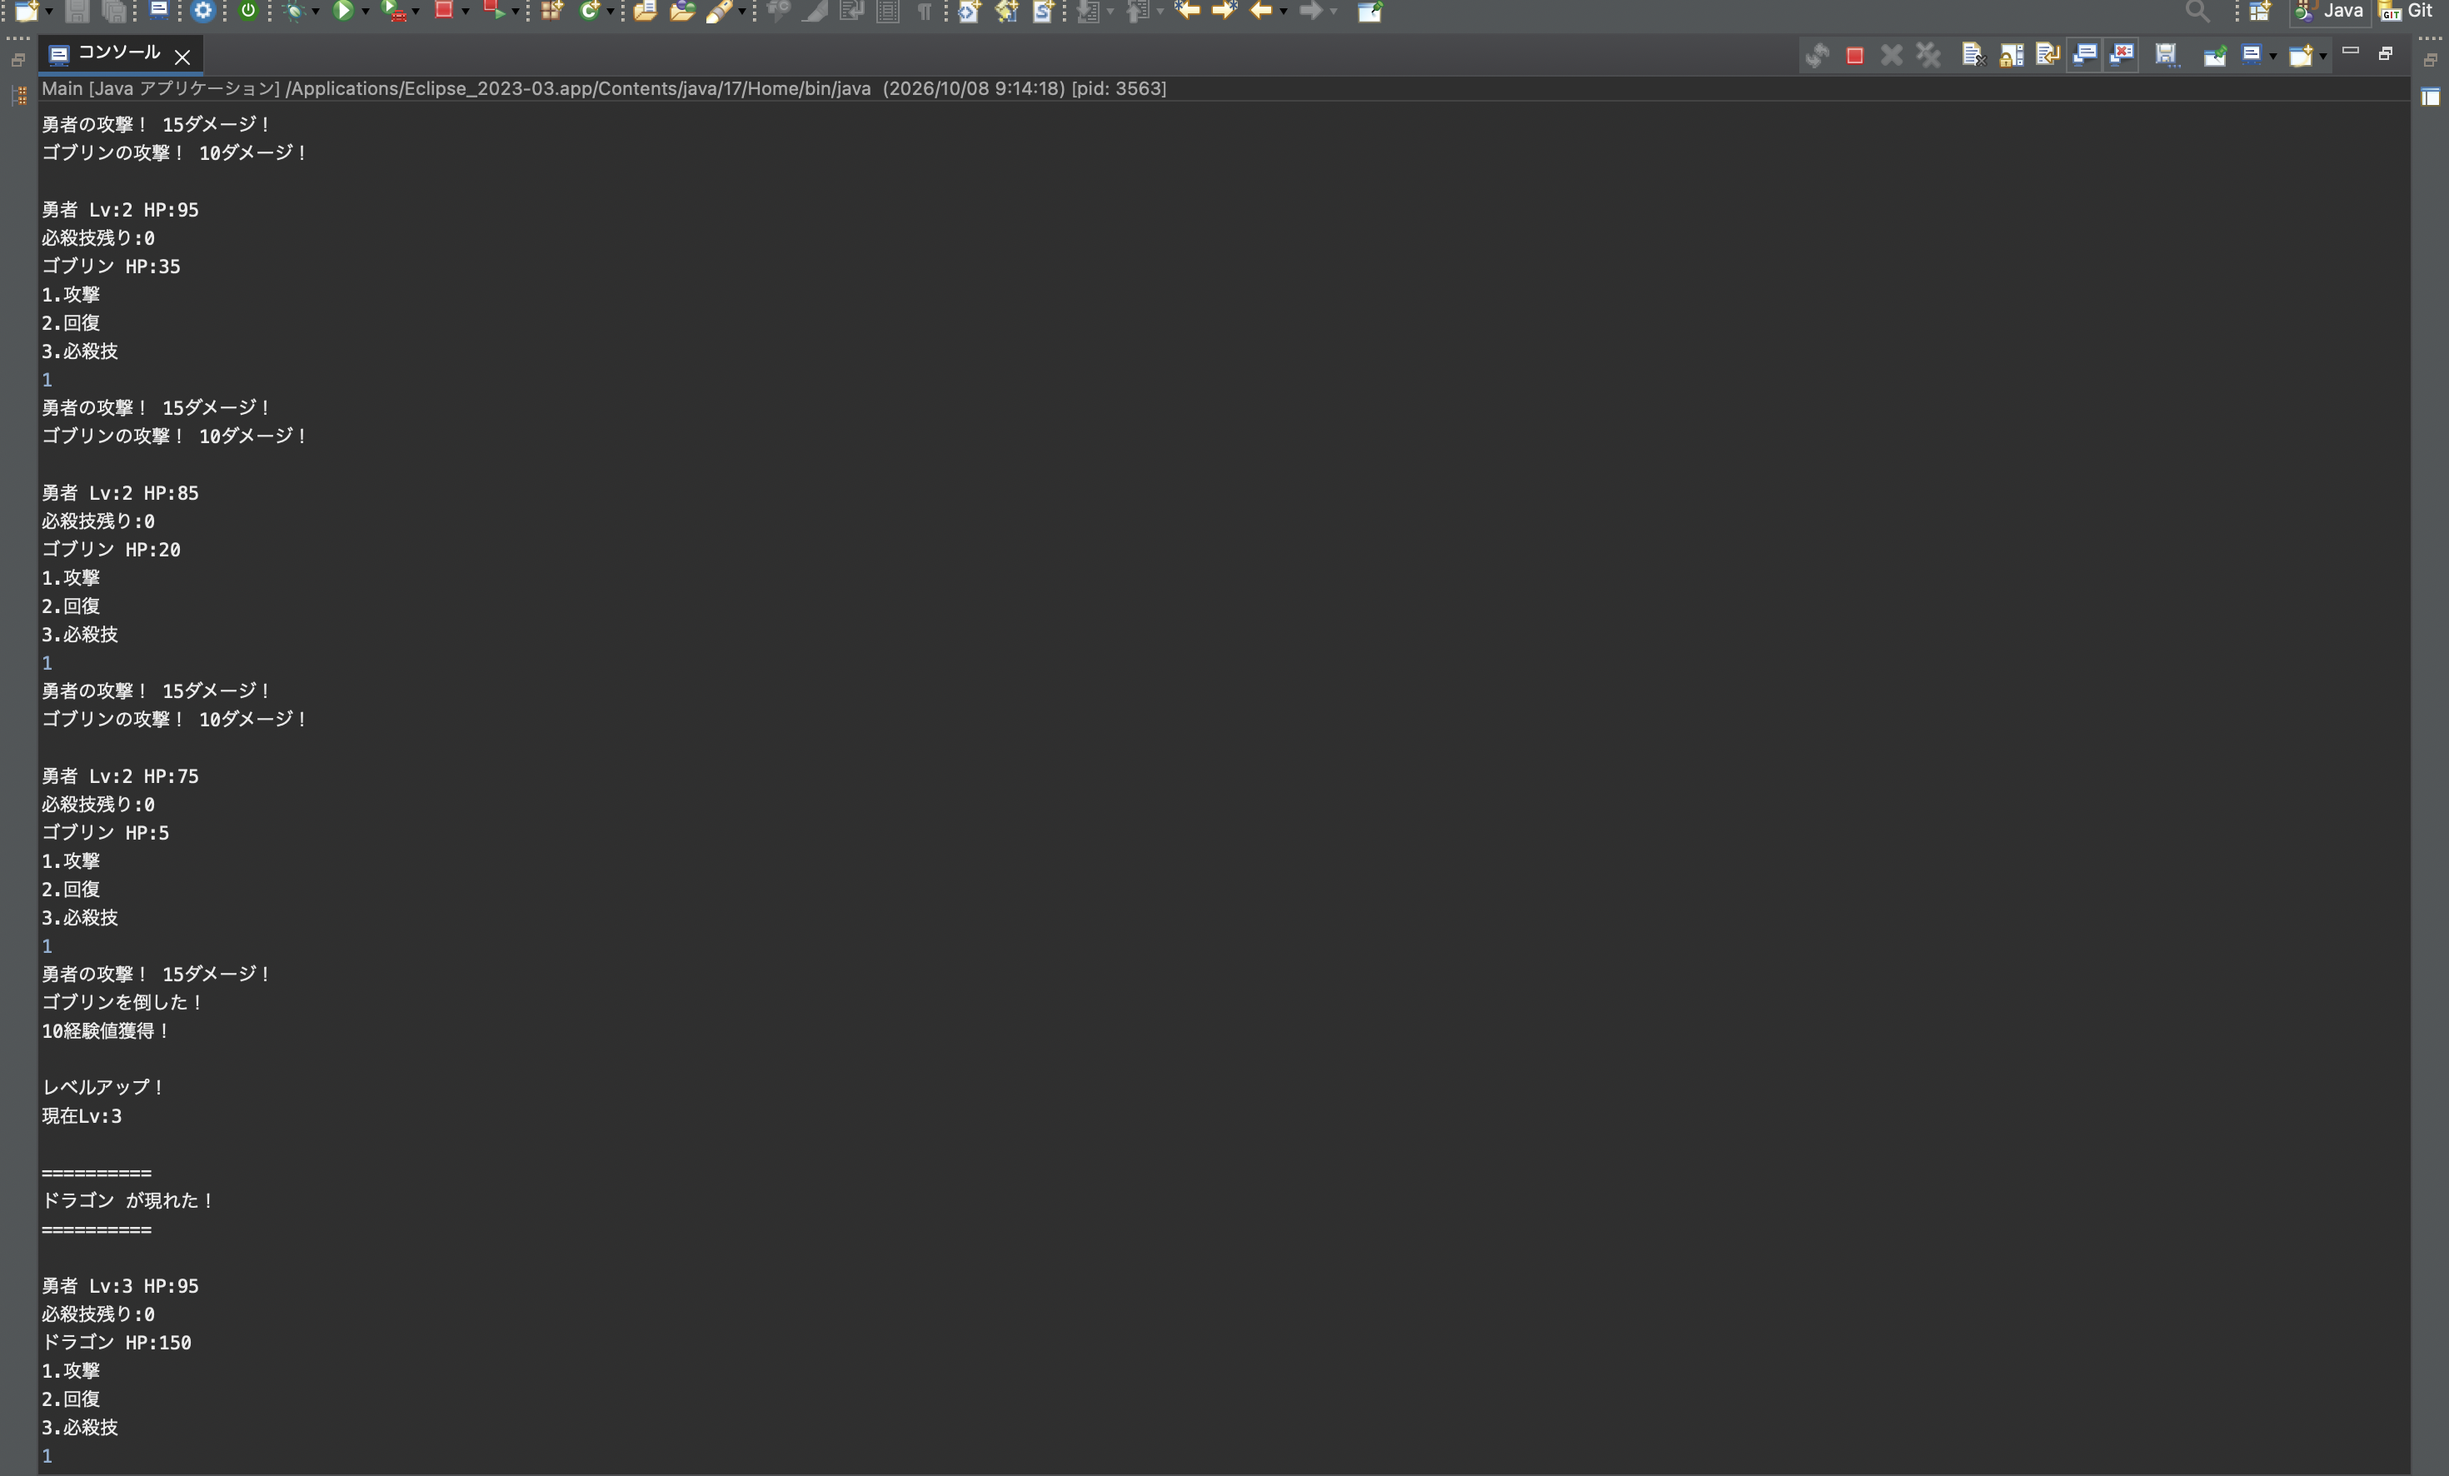
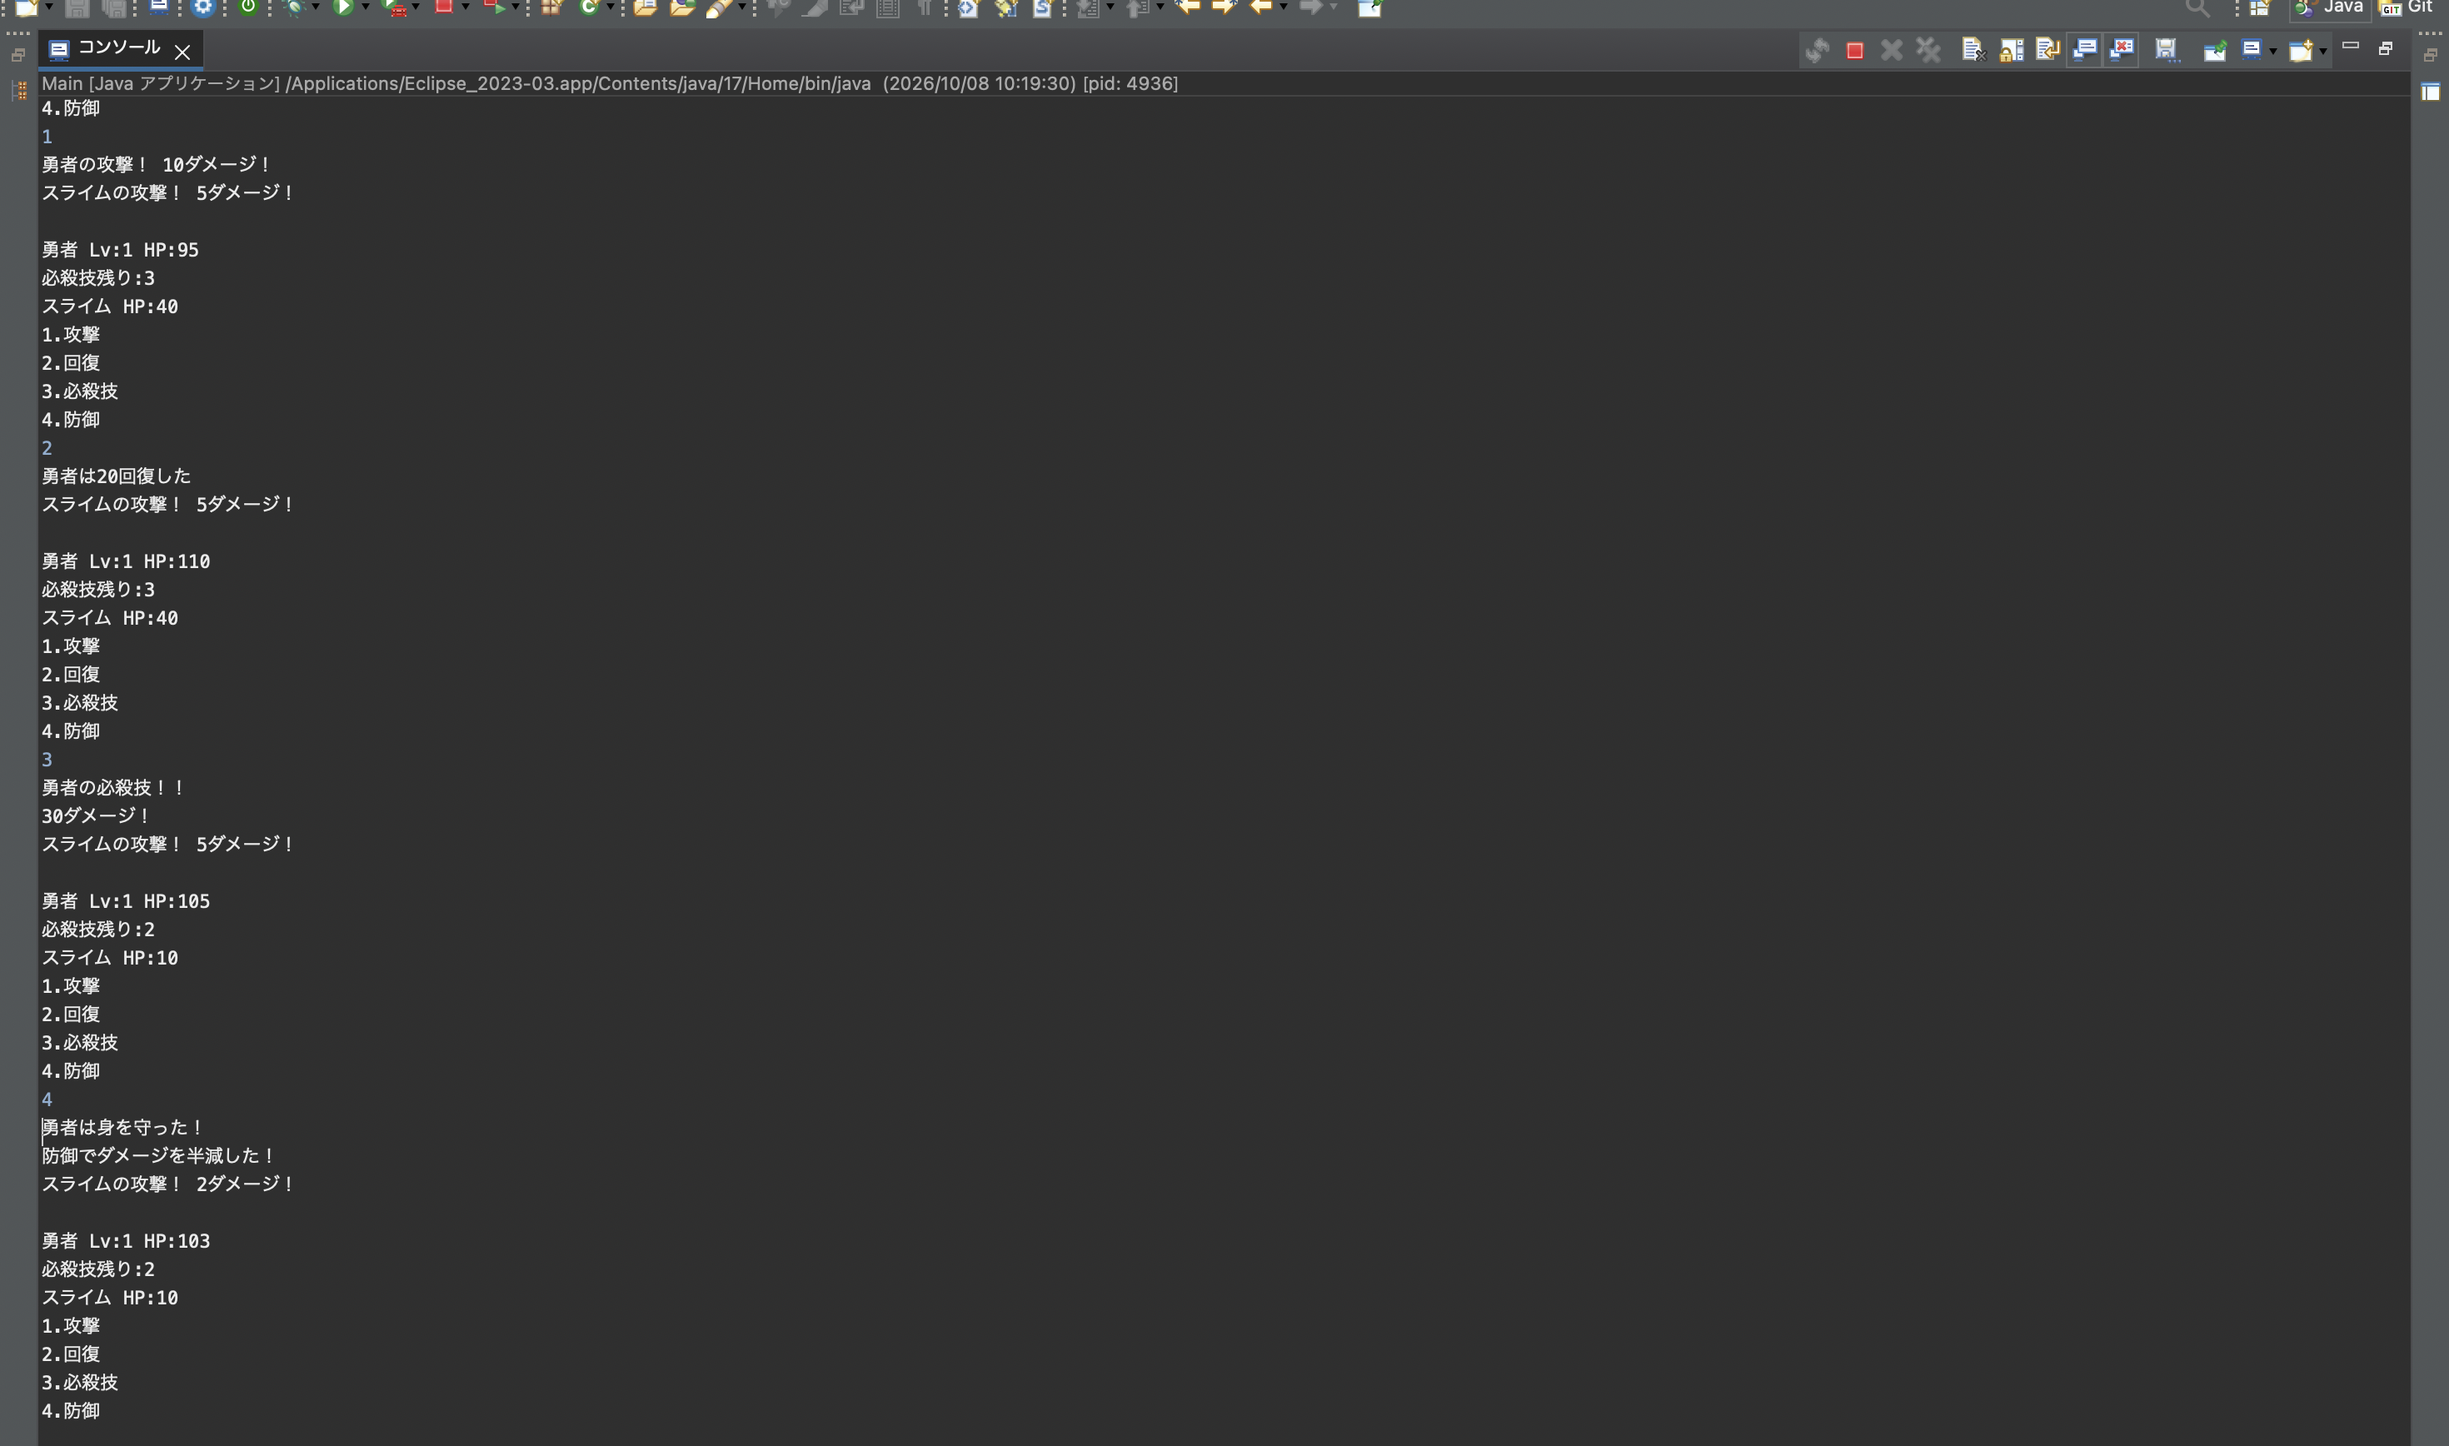
make defending

Changed region(s): [[0.0, 0.0, 0.9905, 1.0], [0.7429, 0.0, 1.0, 0.0622]]

diff --git a/RPGGame2/src/game/Battle.java b/RPGGame2/src/game/Battle.java
@@ -42,6 +42,7 @@ public class Battle {
                 System.out.println("1.攻撃");
                 System.out.println("2.回復");
                 System.out.println("3.必殺技");
+                System.out.println("4.防御");
                 
 
                 int choice = sc.nextInt();
@@ -57,10 +58,15 @@ public class Battle {
                 } else if(choice == 3) {
 
                     hero.specialAttack(monster);
+                    
+                } else if (choice == 4) {
+                	
+                    hero.defending = true;
+                    System.out.println("勇者は身を守った！");                
 
                 } else {
 
-                    System.out.println("1～3を入力してください");
+                    System.out.println("1～4を入力してください");
                 }
 
                 if (monster.hp <= 0) {
@@ -74,7 +80,20 @@ public class Battle {
                     break;
                 }
 
-                monster.attack(hero);
+                int damage = monster.attackPower;
+
+                if (hero.defending) {
+                    damage = damage / 2;
+                    System.out.println("防御でダメージを半減した！");
+                }
+
+                hero.hp -= damage;
+
+                System.out.println(
+                        monster.name + "の攻撃！ "
+                        + damage + "ダメージ！");
+
+                hero.defending = false;
 
                 if (hero.hp <= 0) {
 

diff --git a/RPGGame2/src/game/Hero.java b/RPGGame2/src/game/Hero.java
@@ -5,6 +5,8 @@ public class Hero extends Character {
     int level;
     int exp;
     int specialCount;
+    
+    boolean defending = false;
 
 
     public Hero(String name, int hp) {
@@ -14,7 +16,7 @@ public class Hero extends Character {
         this.exp = 0;
         this.specialCount = 3;
     }
-
+    
 
     
     public void specialAttack(Monster monster) {
